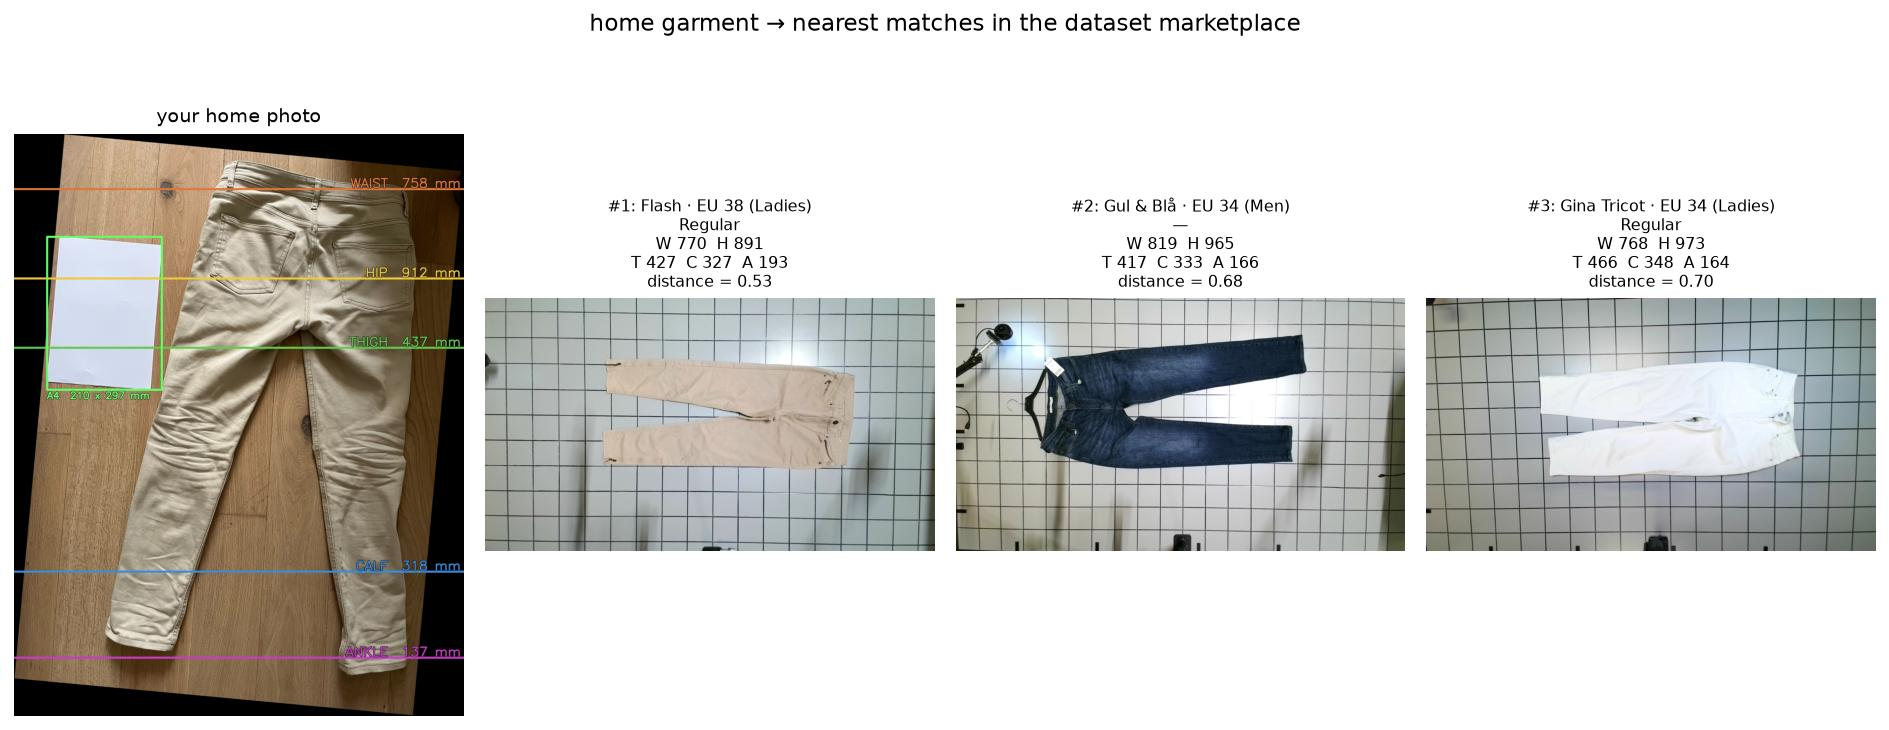
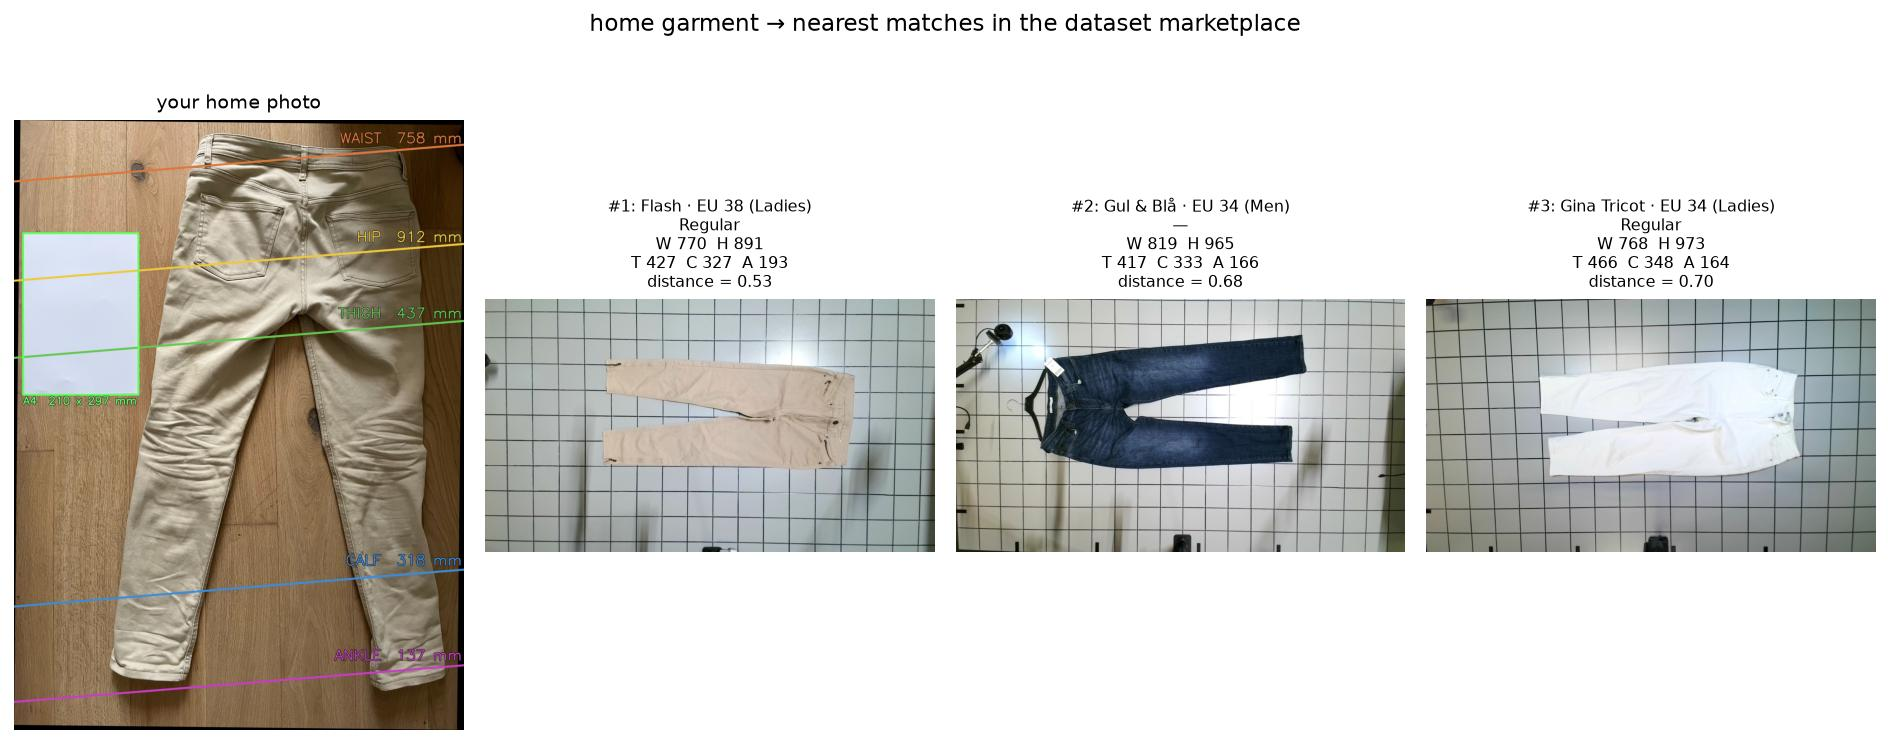
home2market: show un-rotated rectified home photo
The PCA-based rotation over-rotated Y-shaped home garments, leaving
the pants tilted in the demo image and making the visual confusing.
The rotation is still needed internally (measurements are taken in the
rotated frame) but we can skip it for display by:

- measure_jeans.py now also saves 05a_rectified_color.jpg and
  transform_meta.json (rotation affine + 180° flip flag) alongside the
  existing debug output. rotate_to_vertical returns the affine matrix M
  so it can be persisted.
- home2market.py loads the rectified image and inverse-transforms each
  measurement row through the affine (and the possible 180° flip) to
  place lines in the rectified frame. Lines follow the garment axis
  (naturally slanted along the leg direction); labels stay horizontal
  for readability.

Fallback to the rotated canvas is kept for older debug output that
lacks the new files.

diff --git a/dataset_eval/home2market.py b/dataset_eval/home2market.py
@@ -94,16 +94,48 @@ def _find_a4_in_rotated(img_bgr):
 
 
 def render_home_panel(debug_dir, result_json_path, out_path):
-    """Compose the annotated home panel: rotated color image + A4 rectangle
-    (labelled `A4 · 210 × 297 mm`) + measurement lines with big labels."""
+    """Compose the annotated home panel on the *rectified* (un-rotated) image.
+
+    The measurement rows come from the rotated frame, so we invert the
+    rotation transform (and the 180° flip if applied) to draw the lines
+    on the rectified frame. Labels stay horizontal for readability. A4 is
+    detected as the largest bright-white blob in the rectified image.
+    """
     debug_dir = Path(debug_dir)
-    src = debug_dir / "05b_rotated_color.jpg"
-    img = cv2.imread(str(src))
+    rect_src = debug_dir / "05a_rectified_color.jpg"
+    meta_path = debug_dir / "transform_meta.json"
+    if rect_src.exists() and meta_path.exists():
+        img = cv2.imread(str(rect_src))
+        meta = json.loads(meta_path.read_text())
+        rot_M = np.array(meta["rot_M"], dtype=np.float64)
+        flipped = bool(meta["flipped_180"])
+        h_rot, w_rot = meta["img_rot_shape"]
+        use_rectified = True
+    else:
+        # Fall back to the rotated canvas if the rectified extras aren't there.
+        img = cv2.imread(str(debug_dir / "05b_rotated_color.jpg"))
+        rot_M = np.array([[1, 0, 0], [0, 1, 0]], dtype=np.float64)
+        flipped = False
+        h_rot, w_rot = img.shape[:2] if img is not None else (0, 0)
+        use_rectified = False
     if img is None:
-        raise RuntimeError(f"missing rotated color image: {src}")
+        raise RuntimeError("no home canvas found")
     h, w = img.shape[:2]
     d = json.loads(Path(result_json_path).read_text())
     ms = d.get("measurements", {})
+
+    # Inverse of the 2x3 affine rot_M: given a point in the rotated frame,
+    # return the corresponding point in the rectified frame.
+    A = rot_M[:2, :2]
+    t = rot_M[:2, 2]
+    try:
+        A_inv = np.linalg.inv(A)
+    except np.linalg.LinAlgError:
+        A_inv = np.eye(2)
+
+    def rot_to_rect(x_rot, y_rot):
+        p = A_inv @ (np.array([x_rot, y_rot]) - t)
+        return int(round(p[0])), int(round(p[1]))
 
     # Measurement lines. Distinct BGR colours per landmark so lines and
     # labels are visually tied together.
@@ -126,14 +158,35 @@ def render_home_panel(debug_dir, result_json_path, out_path):
         m = ms.get(name)
         if m is None:
             continue
-        y = int(m["y_px"])
+        y_final = int(m["y_px"])
+        # Undo the 180° flip (if ensure_upright applied one) to get y in
+        # the pre-flip rotated frame.
+        y_rot = (h_rot - 1 - y_final) if flipped else y_final
         color = line_colors.get(name, (0, 255, 255))
-        cv2.line(img, (0, y), (w, y), color, line_thick)
+
+        if use_rectified:
+            # Line in the rotated frame spans full width at y_rot; map both
+            # endpoints back to the rectified frame — the resulting line
+            # will follow the garment axis (typically slanted along the leg
+            # direction).
+            p1 = rot_to_rect(0, y_rot)
+            p2 = rot_to_rect(w_rot - 1, y_rot)
+            cv2.line(img, p1, p2, color, line_thick)
+            # Anchor the horizontal label near the higher-y endpoint (so
+            # it doesn't overlap adjacent measurement labels).
+            anchor = p1 if p1[1] <= p2[1] else p2
+            label_x_hint = anchor[0]
+            label_y = anchor[1]
+        else:
+            cv2.line(img, (0, y_rot), (w, y_rot), color, line_thick)
+            label_x_hint = w
+            label_y = y_rot
+
         label = f"{name.upper()}  {m['circumference_mm']:.0f} mm"
         (tw, th), _ = cv2.getTextSize(label, font, label_scale, label_thick)
-        # Right-align: label sits at the right end of the line, above it.
-        lx = max(6, w - tw - 16)
-        ly = y - 12 if y > th + 30 else y + th + 20
+        # Prefer placing the label to the right of the anchor; clip to img.
+        lx = max(6, min(w - tw - 6, label_x_hint - tw - 20))
+        ly = max(th + 8, min(h - 8, label_y - 12))
         cv2.putText(img, label, (lx, ly), font, label_scale, (0, 0, 0),
                     label_thick + 6)
         cv2.putText(img, label, (lx, ly), font, label_scale, color,

diff --git a/measure_jeans.py b/measure_jeans.py
@@ -332,9 +332,15 @@ def rectify(img_bgr, masks, a4_corners, px_per_mm=PX_PER_MM):
 
 
 def rotate_to_vertical(img, mask):
+    """Rotate img+mask so the mask's principal axis is vertical.
+
+    Returns (img_rotated, mask_rotated, rot_deg, M) — the 2×3 affine matrix
+    M is exposed so downstream tools can invert-transform coordinates from
+    the rotated frame back to the input frame.
+    """
     ys, xs = np.where(mask > 0)
     if len(xs) < 50:
-        return img, mask, 0.0
+        return img, mask, 0.0, np.array([[1, 0, 0], [0, 1, 0]], dtype=np.float32)
     pts = np.column_stack([xs.astype(np.float64), ys.astype(np.float64)])
     mean = pts.mean(axis=0)
     cov = np.cov((pts - mean).T)
@@ -359,7 +365,7 @@ def rotate_to_vertical(img, mask):
     out_h = int(np.ceil(maxxy[1] - minxy[1]))
     img_r = cv2.warpAffine(img, M, (out_w, out_h))
     mask_r = cv2.warpAffine(mask, M, (out_w, out_h), flags=cv2.INTER_NEAREST)
-    return img_r, mask_r, rot_deg
+    return img_r, mask_r, rot_deg, M
 
 
 # ---------------------------------------------------------------------------
@@ -642,7 +648,7 @@ def measure_jeans(image_path, px_per_mm=PX_PER_MM, debug_dir=None, click_point=N
         effective_px_per_mm = manual_px_per_mm
 
     if manual_px_per_mm is None:
-        img_rot, mask_rot, _ = rotate_to_vertical(img_rect, jeans_rect)
+        img_rot, mask_rot, _, rot_M = rotate_to_vertical(img_rect, jeans_rect)
     else:
         # Dataset prior: pants are landscape with waistband to the right.
         # A 90° CW rotation makes the waistband sit at the top. This avoids
@@ -650,6 +656,11 @@ def measure_jeans(image_path, px_per_mm=PX_PER_MM, debug_dir=None, click_point=N
         # the leg-spread diagonal instead of the body axis).
         img_rot = cv2.rotate(img_rect, cv2.ROTATE_90_CLOCKWISE)
         mask_rot = cv2.rotate(jeans_rect, cv2.ROTATE_90_CLOCKWISE)
+        # Equivalent affine for a 90° CW rotation of a HxW image:
+        # (x, y) -> (H - 1 - y, x).
+        h_rect = img_rect.shape[0]
+        rot_M = np.array([[0.0, -1.0, float(h_rect - 1)],
+                          [1.0,  0.0, 0.0]], dtype=np.float32)
     img_rot, mask_rot, flipped = ensure_upright(img_rot, mask_rot)
 
     y_top, y_bottom = vertical_extent(mask_rot)
@@ -681,7 +692,9 @@ def measure_jeans(image_path, px_per_mm=PX_PER_MM, debug_dir=None, click_point=N
         )
 
     if debug_dir is not None:
-        save_debug(debug_dir, img, fg, a4_mask, jeans, img_rot, mask_rot, results, y_top, y_crotch, y_bottom)
+        save_debug(debug_dir, img, fg, a4_mask, jeans, img_rot, mask_rot,
+                   results, y_top, y_crotch, y_bottom,
+                   img_rect=img_rect, rot_M=rot_M, flipped=flipped)
 
     return {
         "image": str(image_path),
@@ -701,7 +714,8 @@ def measure_jeans(image_path, px_per_mm=PX_PER_MM, debug_dir=None, click_point=N
 # ---------------------------------------------------------------------------
 
 def save_debug(debug_dir, img_orig, fg_mask, a4_mask, jeans_mask,
-               img_rot, mask_rot, results, y_top, y_crotch, y_bottom):
+               img_rot, mask_rot, results, y_top, y_crotch, y_bottom,
+               img_rect=None, rot_M=None, flipped=False):
     debug_dir = Path(debug_dir)
     debug_dir.mkdir(parents=True, exist_ok=True)
 
@@ -710,9 +724,21 @@ def save_debug(debug_dir, img_orig, fg_mask, a4_mask, jeans_mask,
     cv2.imwrite(str(debug_dir / "03_a4_mask.png"), a4_mask)
     cv2.imwrite(str(debug_dir / "04_jeans_mask.png"), jeans_mask)
     cv2.imwrite(str(debug_dir / "05_jeans_rotated.png"), mask_rot)
-    # Save the clean rotated color image (no overlays) so downstream tools
-    # (e.g. dataset_eval/home2market.py) can annotate freshly with their
-    # own styling.
+    # Also save the clean rectified image (pre-rotation) plus the transform
+    # metadata so downstream tools can display the un-rotated top-down view
+    # and inverse-transform coordinates from the rotated frame back to it.
+    if img_rect is not None:
+        cv2.imwrite(str(debug_dir / "05a_rectified_color.jpg"), img_rect)
+        meta = {
+            "rot_M": (rot_M.tolist() if rot_M is not None
+                      else [[1, 0, 0], [0, 1, 0]]),
+            "flipped_180": bool(flipped),
+            "img_rot_shape": [int(img_rot.shape[0]), int(img_rot.shape[1])],
+            "img_rect_shape": [int(img_rect.shape[0]), int(img_rect.shape[1])],
+        }
+        (debug_dir / "transform_meta.json").write_text(json.dumps(meta, indent=2))
+    # Rotated color image (no overlays) — kept for backwards compat with
+    # tools that expected it as the display canvas.
     cv2.imwrite(str(debug_dir / "05b_rotated_color.jpg"), img_rot)
 
     out = img_rot.copy()